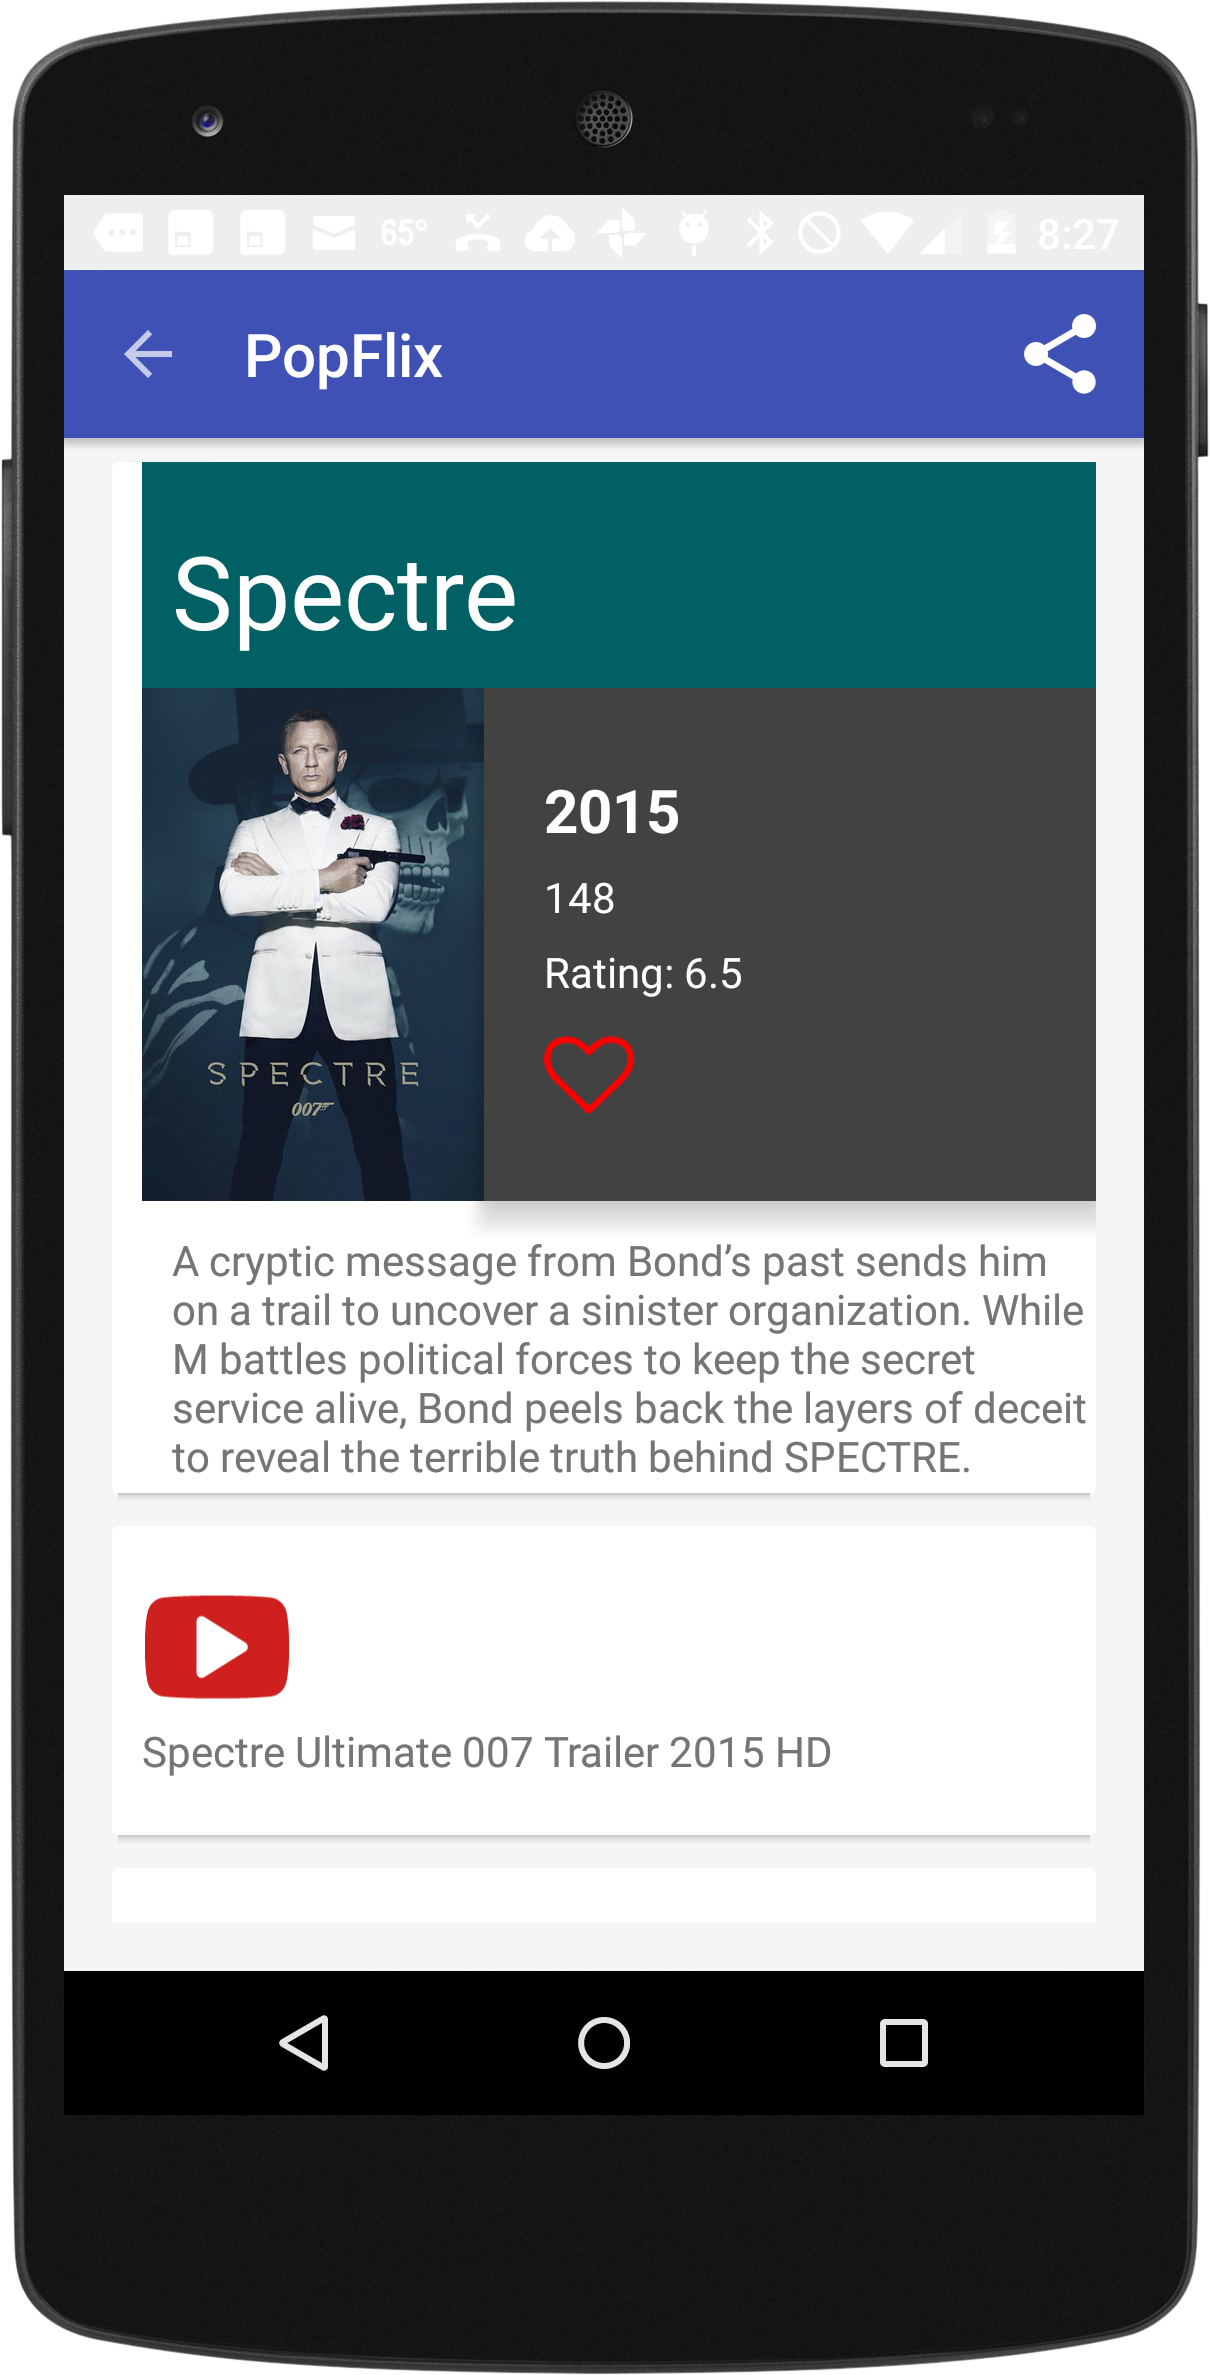
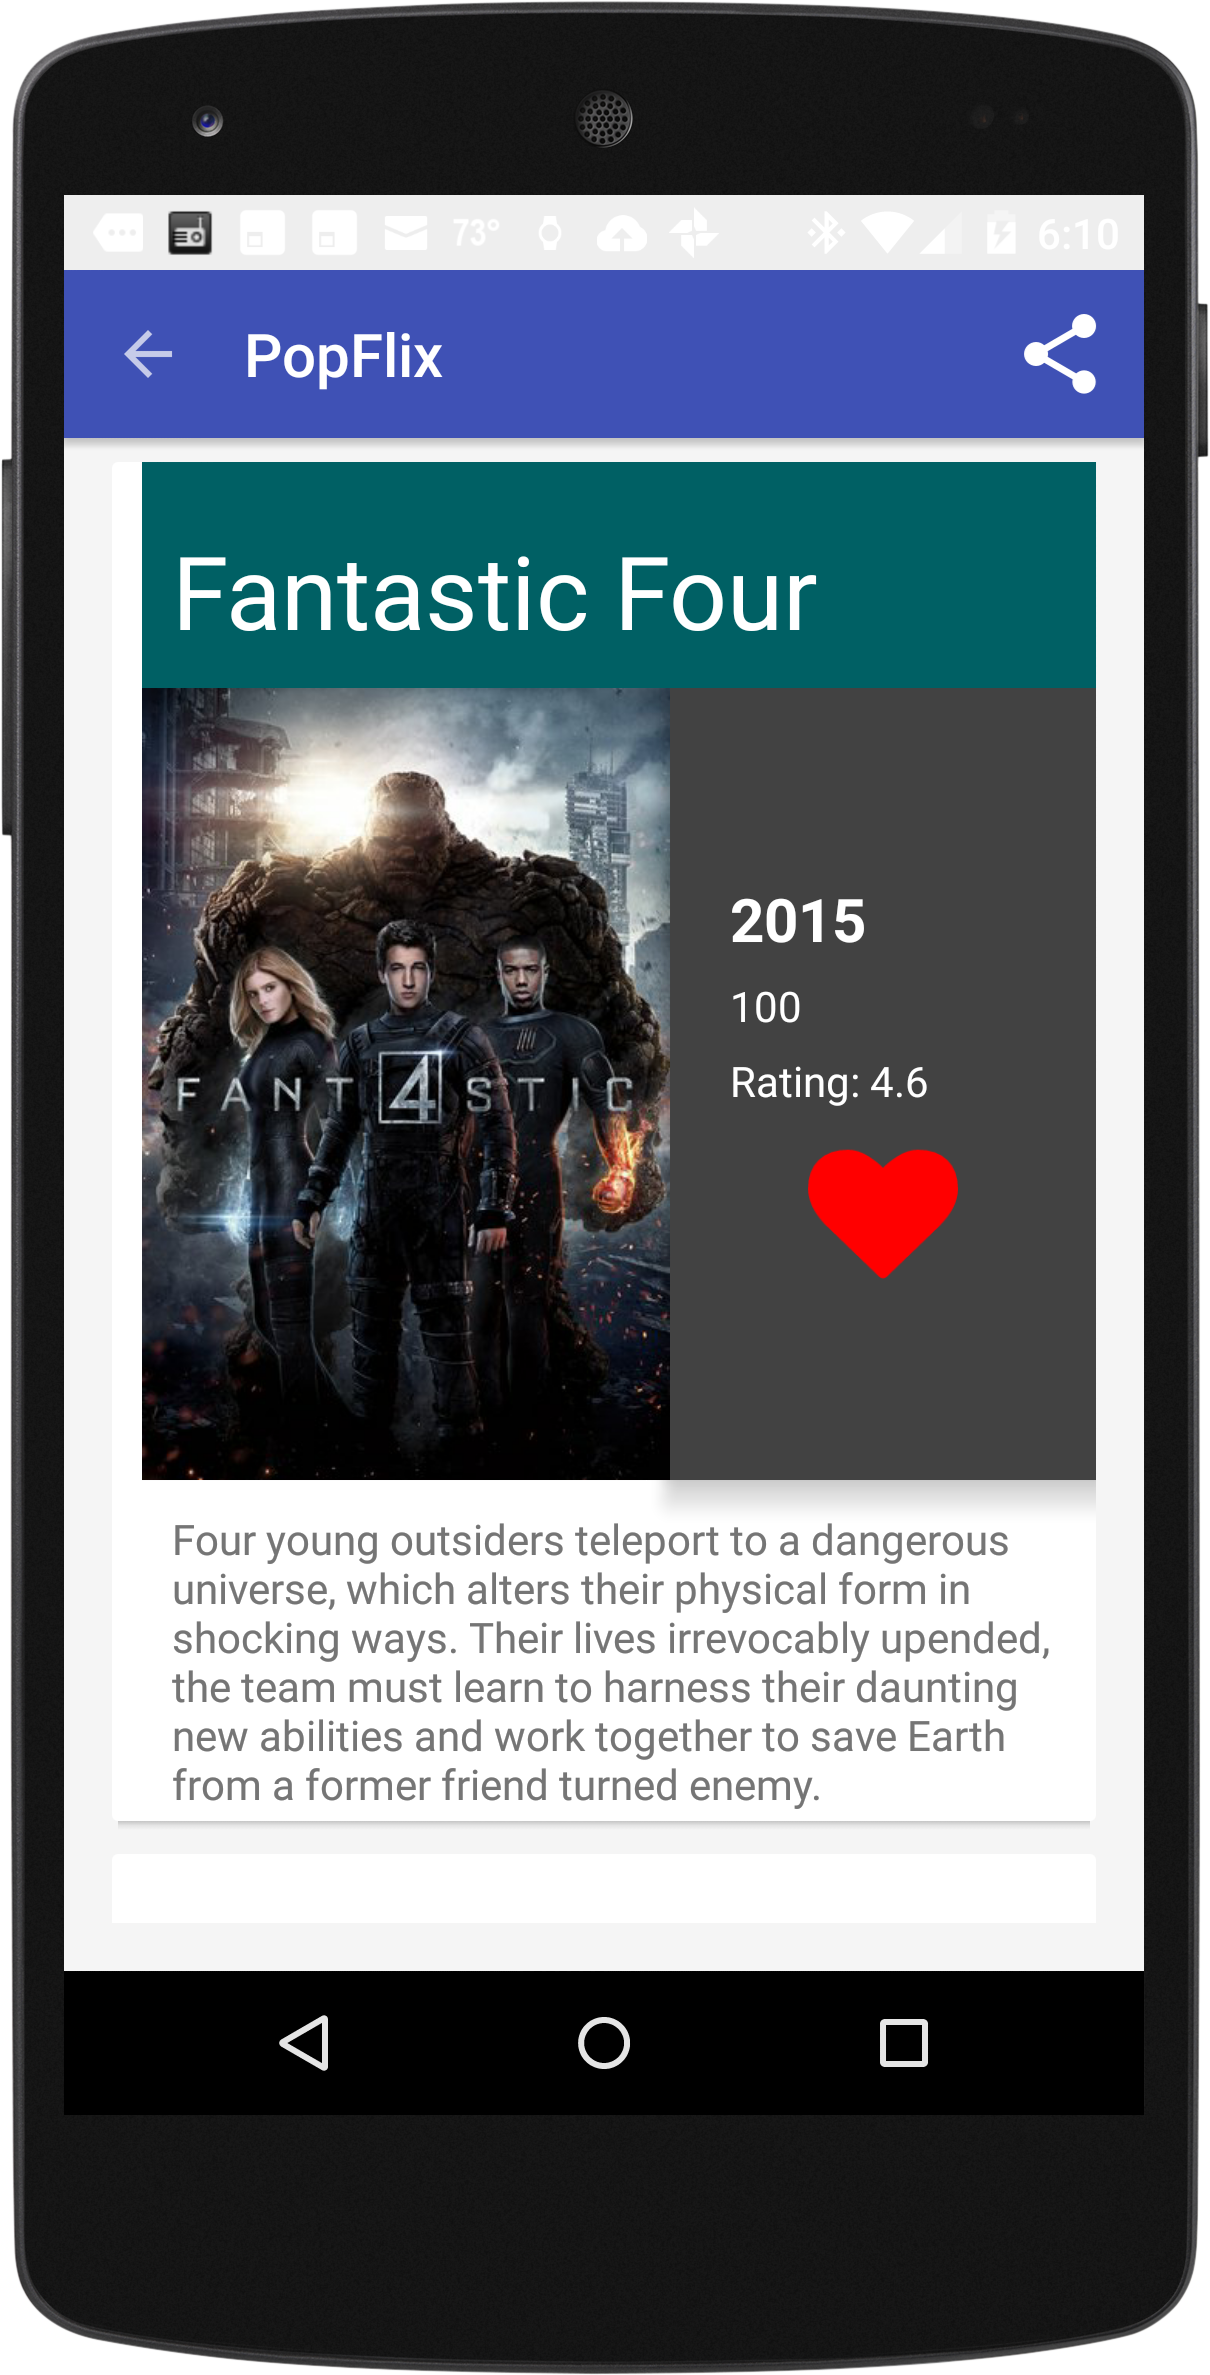
Added FavImageView

Changed region(s): [[0.0917, 0.2181, 0.9174, 0.7789], [0.1223, 0.0623, 0.1835, 0.1246]]

diff --git a/app/src/main/java/com/aziz/udacity/popflix/ui/DetailThumbnailCard.java b/app/src/main/java/com/aziz/udacity/popflix/ui/DetailThumbnailCard.java
@@ -1,7 +1,6 @@
 package com.aziz.udacity.popflix.ui;
 
 import android.content.Context;
-import android.graphics.Color;
 import android.os.Bundle;
 import android.view.View;
 import android.view.ViewGroup;
@@ -14,8 +13,6 @@ import com.aziz.udacity.popflix.R;
 import com.aziz.udacity.popflix.data.Repository;
 import com.aziz.udacity.popflix.event.RefreshEvent;
 import com.aziz.udacity.popflix.util.Utils;
-import com.mikepenz.fontawesome_typeface_library.FontAwesome;
-import com.mikepenz.iconics.IconicsDrawable;
 import com.squareup.picasso.Picasso;
 import de.greenrobot.event.EventBus;
 import it.gmariotti.cardslib.library.internal.Card;
@@ -60,11 +57,9 @@ public class DetailThumbnailCard extends Card {
     TextView mFlickSynopsisTextView;
     
     @Bind(R.id.fav_image_view)
-    ImageView mFavImageView;
+    FavImageView mFavImageView;
 
     private WeakReference<Context> mWeakCtxRef;
-    private IconicsDrawable mFlickFavUnselectedDrawable;
-    private IconicsDrawable mFlickFavSelectedDrawable;
 
 
     /**
@@ -79,18 +74,6 @@ public class DetailThumbnailCard extends Card {
         this.mWrapper = wrapper;
         mCallBack = callBack;
         mWeakCtxRef = new WeakReference<Context>(ctx);
-
-        mFlickFavUnselectedDrawable = createIconicsDrawable(ctx, FontAwesome.Icon.faw_heart_o);
-        mFlickFavSelectedDrawable = createIconicsDrawable(ctx, FontAwesome.Icon.faw_heart);
-
-
-    }
-
-    private IconicsDrawable createIconicsDrawable(Context ctx, FontAwesome.Icon icon) {
-        return new IconicsDrawable(ctx)
-            .icon(icon)
-            .color(Color.RED)
-            .sizeDp(48);
     }
 
     private void setPosterImageView(FlickBundleWrapper wrapper, Context ctx) {
@@ -112,9 +95,9 @@ public class DetailThumbnailCard extends Card {
         final Bundle args = mWrapper.getBundle();
         if (args != null) {
             FlickBundleWrapper wrapper = new FlickBundleWrapper(args);
-            switchIcons();
-            boolean isPressed = isPressed();
-            Timber.d("isPressed " + isPressed);
+            mFavImageView.switchPressedMode();
+            boolean isPressed = mFavImageView.isFavPressed();
+            Timber.d("isFavPressed " + isPressed);
             if (isPressed) {
                 // Add this flick to the DB and update the icon
                 try {
@@ -124,7 +107,7 @@ public class DetailThumbnailCard extends Card {
                 } catch (Exception e) {
                     Timber.e("Failed to persist flick with details: " + wrapper.getTitle(), e);
                 }
-                mFavImageView.setImageDrawable(mFlickFavSelectedDrawable);
+
             } else {
                 // Remove this flick from the DB and update the icon
                 try {
@@ -134,7 +117,6 @@ public class DetailThumbnailCard extends Card {
                 } catch (Exception e) {
                     Timber.e("Failed to delete flick with details: " + wrapper.getTitle(), e);
                 }
-                mFavImageView.setImageDrawable(mFlickFavUnselectedDrawable);
             }
             mWrapper.isPersisted(isPressed);
             mCallBack.updateCard();
@@ -155,30 +137,15 @@ public class DetailThumbnailCard extends Card {
         mFlickYearTextView.setText(mWrapper.getReleaseDate());
         mFlickTimeLengthTextView.setText(mWrapper.getFlickLength());
         mFlickRatingTextView.setText(ctx.getString(R.string.rating) + mWrapper.getUserRating());
-
         mFlickSynopsisTextView.setText(mWrapper.getSynopsis());
 
+        mFavImageView.setFavPressed(mWrapper.getIsPersisted());
 
-        if (mWrapper.getIsPersisted()) {
-            mFavImageView.setImageDrawable(mFlickFavSelectedDrawable);
-        } else {
-            mFavImageView.setImageDrawable(mFlickFavUnselectedDrawable);
-
-        }
 
     }
 
-    private boolean isPressed() {
-        return mFavImageView.getDrawable() == mFlickFavSelectedDrawable;
-    }
 
-    public void switchIcons() {
-        if (isPressed()) {
-            mFavImageView.setImageDrawable(mFlickFavUnselectedDrawable);
-        } else {
-            mFavImageView.setImageDrawable(mFlickFavSelectedDrawable);
-        }
-    }
+
 
 
 }

diff --git a/app/src/main/java/com/aziz/udacity/popflix/ui/FavImageView.java b/app/src/main/java/com/aziz/udacity/popflix/ui/FavImageView.java
@@ -1,0 +1,71 @@
+package com.aziz.udacity.popflix.ui;
+
+import android.content.Context;
+import android.graphics.Color;
+import android.util.AttributeSet;
+import android.widget.ImageView;
+import com.mikepenz.fontawesome_typeface_library.FontAwesome;
+import com.mikepenz.iconics.IconicsDrawable;
+
+/**
+ * A fix the selected/unselected blues.
+ * <p/>
+ * Google field naming convention:
+ * Non-public, non-static field names start with m.
+ * Static field names start with s.
+ * Other fields start with a lower case letter.
+ * Public static final fields (constants) are ALL_CAPS_WITH_UNDERSCORES.
+ *
+ * @author Aziz Kadhi
+ */
+public class FavImageView extends ImageView{
+
+    private boolean mPressed;
+
+    private IconicsDrawable mFlickFavUnselectedDrawable;
+    private IconicsDrawable mFlickFavSelectedDrawable;
+
+    public FavImageView(Context context) {
+        super(context);
+        init(context);
+    }
+
+    private void init(Context context) {
+        mFlickFavUnselectedDrawable = createIconicsDrawable(context, FontAwesome.Icon.faw_heart_o);
+        mFlickFavSelectedDrawable = createIconicsDrawable(context, FontAwesome.Icon.faw_heart);
+    }
+
+    public FavImageView(Context context, AttributeSet attrs) {
+        super(context, attrs);
+        init(context);
+    }
+
+    public FavImageView(Context context, AttributeSet attrs, int defStyleAttr) {
+        super(context, attrs, defStyleAttr);
+        init(context);
+    }
+
+    private IconicsDrawable createIconicsDrawable(Context ctx, FontAwesome.Icon icon) {
+        return new IconicsDrawable(ctx)
+            .icon(icon)
+            .color(Color.RED)
+            .sizeDp(48);
+    }
+
+    public boolean isFavPressed() {
+        return mPressed;
+    }
+
+    public void setFavPressed(boolean pressed) {
+        mPressed = pressed;
+        if (pressed) {
+            setImageDrawable(mFlickFavSelectedDrawable);
+        } else {
+            setImageDrawable(mFlickFavUnselectedDrawable);
+        }
+    }
+
+    public void switchPressedMode() {
+        setFavPressed(!mPressed);
+    }
+}

diff --git a/app/src/main/java/com/aziz/udacity/popflix/fragment/FlickDetailFragment.java b/app/src/main/java/com/aziz/udacity/popflix/fragment/FlickDetailFragment.java
@@ -220,21 +220,6 @@ public class FlickDetailFragment extends Fragment implements CardAdapterCallBack
 
         //Swipe
         card.setSwipeable(true);
-
-        //Animator listener
-        card.setOnExpandAnimatorEndListener(new Card.OnExpandAnimatorEndListener() {
-            @Override
-            public void onExpandEnd(Card card) {
-
-            }
-        });
-
-        card.setOnCollapseAnimatorEndListener(new Card.OnCollapseAnimatorEndListener() {
-            @Override
-            public void onCollapseEnd(Card card) {
-
-            }
-        });
         return card;
     }
 
@@ -251,8 +236,6 @@ public class FlickDetailFragment extends Fragment implements CardAdapterCallBack
         super.onDestroyView();
         ButterKnife.unbind(this);
     }
-
-
 
 
 }
